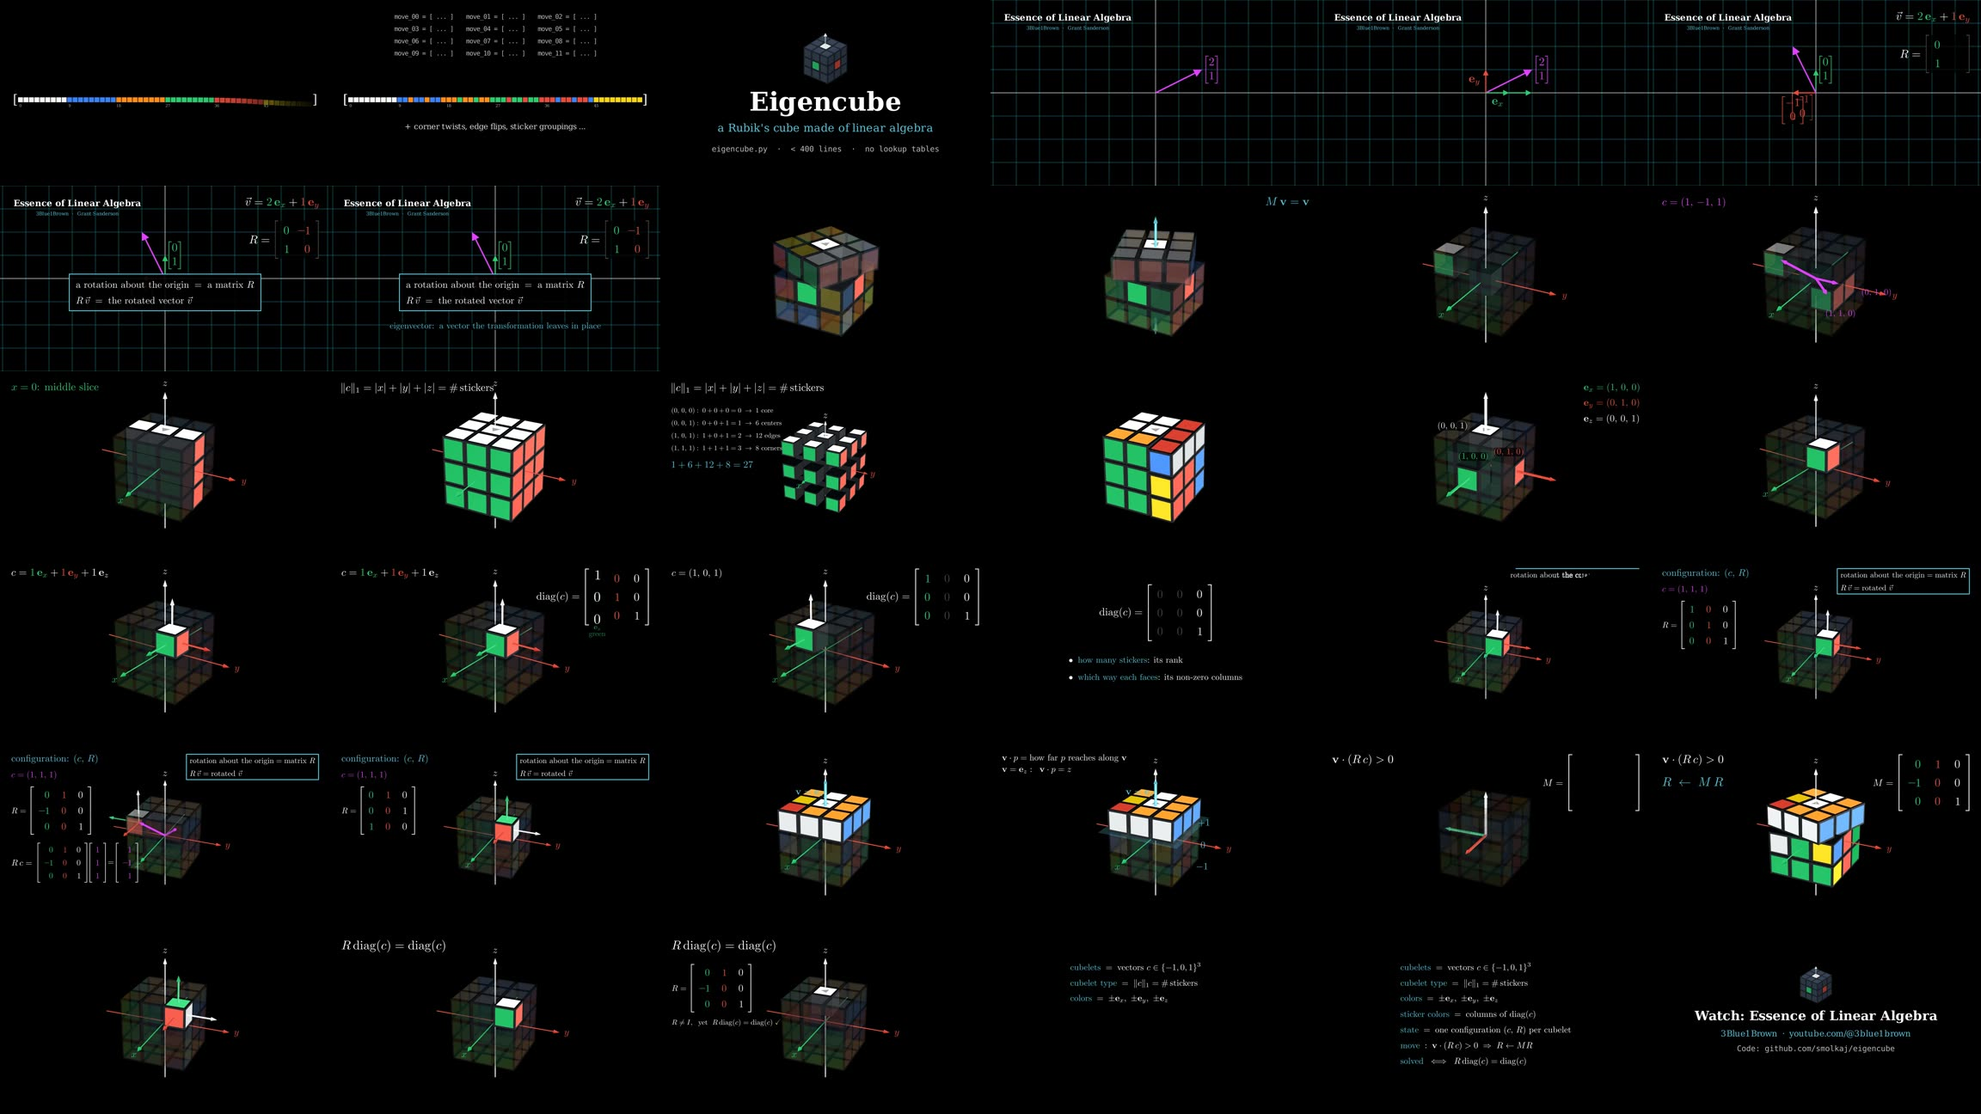
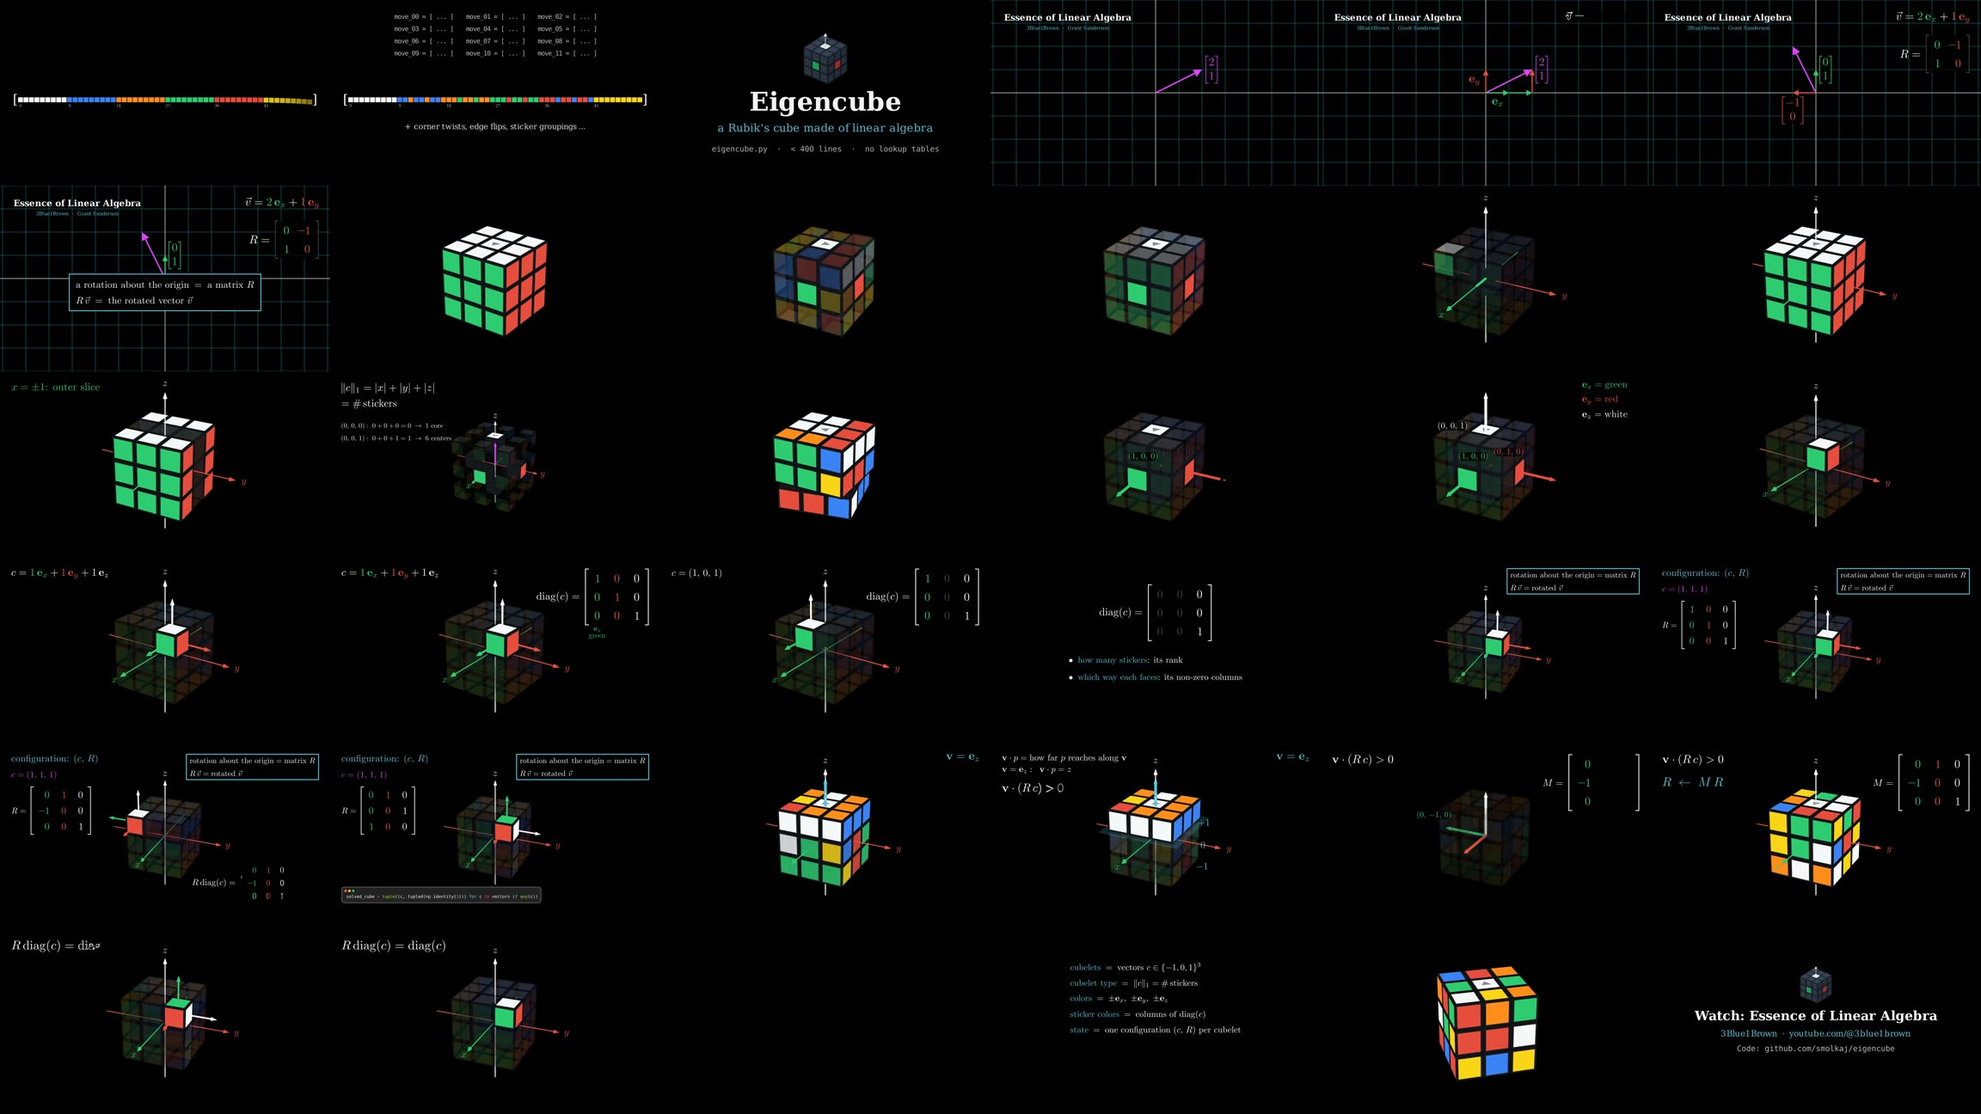
explainer: fail the build on overlapping text; review fixes
Two review rounds in a row found labels colliding with other labels or
with the captions, which no check covered. After every animation, the
build now finds where each placed label lands on screen, including 3D
labels projected through the camera, and fails on any overlap with
another label or with the caption band.

From review:
- One function decides which cubelets a move turns.
- The eigenvector overlay uses R, the review's name for a rotation, not
  the M that is only introduced later.
- The center and edge examples are both in plain view, each lit as it is
  named.
- The colors chapter turns the camera around to show the opposite
  colors.
- Stickers are drawn without shading, so each color looks the same on
  every face.
- The solve starts on "Here it is".
- The poster's play badge sits clear of its subject.
- The README defines v and M, and documents how to republish the release.

diff --git a/explainer/scenes.py b/explainer/scenes.py
@@ -65,7 +65,7 @@ def sticker_list_layout():
 
 class StickerNightmare(Narrated):
     def construct(self):
-        self.set_camera_orientation(**{**CAMERA, "zoom": 1.45})
+        self.set_camera_orientation(**{**CAMERA, "zoom": 1.35})
         cube = CubeMobject(eigencube.shuffle(eigencube.solved_cube, 25, seed=5))
         self.begin_ambient_camera_rotation(rate=0.12)
         with self.voice("Here's a Rubik's cube. Twenty-six little plastic cubelets, fifty-four "
@@ -102,7 +102,7 @@ class StickerNightmare(Narrated):
             arcs = VGroup(*(ArcBetweenPoints(cell.get_center() + 0.15 * UP, target + 0.15 * UP,
                                              angle=-PI / 2.2, color=ACCENT, stroke_width=1.5)
                             for cell, target in moved))
-            self.hud(arcs)
+            self.hud(arcs, overlay=True)
             self.wait(1.2)
             self.play(LaggedStart(*(Create(a) for a in arcs), lag_ratio=0.06), run_time=2.5)
             self.play(*(cell.animate(path_arc=-PI / 2).move_to(target) for cell, target in moved),
@@ -265,6 +265,9 @@ class LinearAlgebraReview(Narrated):
                         "dimensions, every rotation has one: its axis. Hold on to that thought."):
             self.when_said("eigenvector")
             self.play(Write(eigen), run_time=2)
+            self.when_said("A quarter turn")  # Every arrow moves.
+            self.play(Rotate(VGroup(plane, e_x, e_y, v), angle=PI / 2, about_point=ORIGIN),
+                      run_time=2.5)
         self.wait(0.5)
         self.play(*(FadeOut(m) for m in self.mobjects))
 
@@ -298,7 +301,7 @@ class FixedFrame(Narrated):
         # Both arms of the vertical axis, and the turns around them: top and bottom.
         axis = VGroup(arrow(ORIGIN, at(TOP, 2.6), ACCENT, thickness=0.04),
                       arrow(ORIGIN, at((0, 0, -1), 2.6), ACCENT, thickness=0.04))
-        eigen = self.hud(MathTex(r"M\,\mathbf{v} = \mathbf{v}", font_size=48, color=ACCENT)
+        eigen = self.hud(MathTex(r"R\,\mathbf{v} = \mathbf{v}", font_size=48, color=ACCENT)
                          .to_corner(UR))
         with self.voice("In the language of our review: each arm of the cross stays exactly where it "
                         "is, under every turn around it, like these turns of the top and the "
@@ -347,17 +350,19 @@ class FixedFrame(Narrated):
             self.play(Create(c_arrow), FadeIn(c_label))
         self.play(FadeOut(*path))
 
-        others = [((0, 1, 0), 2.6), ((1, 1, 0), 2.1)]
+        # The right center and the top-right edge are both in plain view; labels sit clear of axes.
+        others = [((0, 1, 0), (0, 1.6, -0.75)), ((0, 1, 1), (0, 0.9, 1.85))]
         other_arrows = [position_arrow(c) for c, _ in others]
         other_labels = [self.facing_camera(vector_tex(c, color=POSITION, font_size=36)
-                                           .move_to(at(c, scale))) for c, scale in others]
+                                           .add_background_rectangle(opacity=0.75)
+                                           .move_to(at(spot))) for c, spot in others]
         with self.voice("The coordinates of every cubelet are minus one, zero, or one. A center, "
                         "like this one, sits at zero, one, zero. And an edge, like this one, at "
-                        "one, one, zero."):
-            self.play(*(cube.pieces[c].animate.set_opacity(0.45) for c, _ in others))
-            for a, label, words in zip(other_arrows, other_labels, ["A center", "And an edge"]):
+                        "zero, one, one."):
+            for (c, _), a, label, words in zip(others, other_arrows, other_labels,
+                                              ["A center", "And an edge"]):
                 self.when_said(words)
-                self.play(Create(a), FadeIn(label))
+                self.play(cube.pieces[c].animate.set_opacity(0.45), Create(a), FadeIn(label))
         domain = self.hud(MathTex(r"c \in \{-1, 0, 1\}^3", font_size=44)
                           .next_to(c_label, DOWN, 0.4, aligned_edge=LEFT))
         self.play(Write(domain))
@@ -406,8 +411,9 @@ class CountingStickers(Narrated):
             self.when_said("the same goes")
             self.play(cube.animate.ghosted(cube.pieces))
 
-        norm = self.hud(MathTex(r"\|c\|_1 = |x| + |y| + |z|", r"= \#\,\text{stickers}",
-                                font_size=44).to_corner(UL))
+        norm = self.hud(VGroup(MathTex(r"\|c\|_1 = |x| + |y| + |z|", font_size=44),
+                               MathTex(r"= \#\,\text{stickers}", font_size=44))
+                        .arrange(DOWN, aligned_edge=LEFT).to_corner(UL))
         with self.voice("Add up the three switches, and you get what's called the Manhattan norm of "
                         "c. And it counts the stickers."):
             self.play(FadeOut(switch))
@@ -524,7 +530,14 @@ class ColorsAreVectors(Narrated):
             self.play(*(Create(color_arrows[c]) for c in negatives),
                       *(FadeIn(tips[c]) for c in negatives),
                       LaggedStart(*(Write(p) for p in palette[3:]), lag_ratio=0.4), run_time=2.5)
-
+        # The opposites point away from the camera; look at them from the other side.
+        # The legend and the front labels would crowd the back view, so they step aside meanwhile.
+        front_labels = [tips[c] for c in centers if c not in negatives]
+        self.play(FadeOut(palette), *(FadeOut(t) for t in front_labels))
+        self.move_camera(phi=70 * DEGREES, theta=CAMERA["theta"] + PI, run_time=2.5)
+        self.wait(2)
+        self.move_camera(**CAMERA, run_time=2.5)
+        self.play(FadeIn(palette), *(FadeIn(t) for t in front_labels))
         self.wait(1)
 
 
@@ -681,7 +694,7 @@ class Configuration(Narrated):
             MathTex(r"\text{rotation about the origin} = \text{matrix } R", font_size=32),
             MathTex(r"R\,\vec{v} = \text{rotated } \vec{v}", font_size=32)).arrange(
                 DOWN, aligned_edge=LEFT))
-        rule_box = self.hud(SurroundingRectangle(rule, color=ACCENT, buff=0.15))
+        rule_box = self.hud(SurroundingRectangle(rule, color=ACCENT, buff=0.15), overlay=True)
         VGroup(rule, rule_box).to_corner(UR)
         with self.voice("Remember our rule from the review: a rotation about the origin is a "
                         "matrix. And one turn after another is still just a rotation. So however "
@@ -722,7 +735,8 @@ class Configuration(Narrated):
                                product_tex(quarter, [[x] for x in CORNER],
                                            [[x] for x in quarter @ CORNER],
                                            BASIS_COLORS, [POSITION], [POSITION]).scale(0.7))
-                        .arrange(RIGHT).next_to(r_top, DOWN, 0.35, aligned_edge=LEFT))
+                        .arrange(RIGHT).to_corner(DR))  # Clear of the x axis, lower left.
+        above_captions(p_eq)
         with self.voice("So where is our cubelet, c, now? Take its home address, and rotate it: "
                         "multiply c by R.", pause=0.8):
             self.play(corner.animate.set_opacity(0.45))  # See-through, so the arrow to it shows.
@@ -779,8 +793,8 @@ class Moves(Narrated):
                  "turn?")
 
         v_arrow = arrow(ORIGIN, at(TOP, 2.6), ACCENT, thickness=0.05)
-        v_label = self.facing_camera(MathTex(r"\mathbf{v} = \mathbf{e}_z", color=ACCENT,
-                                             font_size=40).move_to(at(TOP, 2.4) + 1.3 * RIGHT))
+        v_label = self.hud(MathTex(r"\mathbf{v} = \mathbf{e}_z", color=ACCENT, font_size=48)
+                           .to_corner(UR))
         with self.voice("The ones in the top layer, with z equal to one. To say that for any face, "
                         "take the face's axis, v. For the top face, v is e z, pointing up."):
             self.play(cube.animate.ghosted(cube.slice_cubelets(TURN_TOP), 0.15), run_time=1.5)
@@ -948,7 +962,7 @@ class Solved(Narrated):
 
 class Outro(Narrated):
     def construct(self):
-        self.wait(1.5)  # A breath before the recap.
+        self.wait(1.5)  # A breath before the recap (which the README's summary table mirrors).
         recap = VGroup(*(MathTex(r"\text{%s}" % name, r"\;%s\;" % relation, rhs, font_size=36)
                          for name, relation, rhs in [
             ("cubelets", "=", r"\text{vectors } c \in \{-1, 0, 1\}^3"),
@@ -983,9 +997,10 @@ class Outro(Narrated):
         music_start = self.renderer.time
         with self.voice("On top of that model, Eigencube solves the cube layer by layer: an A-star "
                         "search, guided by how many quarter turns each cubelet is from home, plus "
-                        "one classic move sequence to finish. Here it is, solving a scramble."):
+                        "one classic move sequence to finish."):
             self.play(FadeIn(cube, scale=0.8))
             self.begin_ambient_camera_rotation(rate=0.15)
+        with self.voice("Here it is, solving a scramble."):
             for move in solution:
                 self.play(cube.turn(move), run_time=0.09, rate_func=linear)
         assert eigencube.is_cube_solved(cube.state)

diff --git a/explainer/kit.py b/explainer/kit.py
@@ -130,8 +130,13 @@ class Narrated(ThreeDScene):
     """
 
     def setup(self):
+        # Flat colors: Cairo's lighting would make one sticker color look different on each face.
+        self.renderer.camera.should_apply_shading = False
         self.cues = []
+        self.collisions = []
+        self.labels = []
         self.speaking_until = 0
+        self.spoken_words = []
         # Chapters render in parallel; separate LaTeX work directories keep them from reading each
         # other's half-written output for the same formula.
         config.tex_dir = str(Path(config.media_dir) / "Tex" / type(self).__name__)
@@ -147,6 +152,7 @@ class Narrated(ThreeDScene):
         self.speaking_until = start + seconds
         self.spoken_words = self.cues[-1]["words"]
         yield
+        self.spoken_words = []  # when_said outside a line fails instead of timing against this one.
         remaining = start + seconds + pause - self.renderer.time
         if remaining > 1 / config.frame_rate:
             self.wait(remaining)
@@ -208,17 +214,56 @@ class Narrated(ThreeDScene):
             world = [m for m in self.mobjects if id(m) not in animated and m not in pinned]
             animations = (*animations, *(Animation(m) for m in world))
         super().play(*animations, **kwargs)
+        self.check_labels()
 
-    def hud(self, *mobjects):
-        """Pins mobjects to the screen (not the 3D world) without showing them yet."""
+    def label_boxes(self):
+        """Where each label on screen lands, as (description, lower left, upper right).
+
+        A label is whatever was placed with hud() or facing_camera(), however many of its parts
+        are on screen at the moment."""
+        camera = self.renderer.camera
+        on_screen = set(self.get_mobject_family_members())
+        for label in self.labels:
+            parts = [m for m in label.get_family() if m in on_screen and m.has_points() and
+                     (m.get_fill_opacity() > 0 or m.get_stroke_opacity() > 0)]
+            if not parts:
+                continue
+            shift = 0
+            if label in camera.fixed_orientation_mobjects:
+                # Such a label is drawn where its center projects to, without perspective.
+                center = camera.fixed_orientation_mobjects[label]()
+                shift = camera.project_point(center) - center
+            low = np.min([p.get_corner(DL) for p in parts], axis=0) + shift
+            high = np.max([p.get_corner(UR) for p in parts], axis=0) + shift
+            yield getattr(label, "tex_string", type(label).__name__), low, high
+
+    def check_labels(self, slack=0.03):
+        """Records text that overlaps other text or the caption band; the build fails on any."""
+        boxes = list(self.label_boxes())
+        for i, (name, low, high) in enumerate(boxes):
+            if low[1] < CAPTION_TOP - slack:
+                self.collisions.append((self.renderer.time, name, "the captions"))
+            for other, low2, high2 in boxes[i + 1:]:
+                if (min(high[0], high2[0]) - max(low[0], low2[0]) > slack and
+                        min(high[1], high2[1]) - max(low[1], low2[1]) > slack):
+                    self.collisions.append((self.renderer.time, name, other))
+
+    def hud(self, *mobjects, overlay=False):
+        """Pins mobjects to the screen (not the 3D world) without showing them yet.
+
+        Pinned mobjects must not overlap each other or the captions, unless they are an `overlay`
+        drawn on top of something on purpose."""
         self.add_fixed_in_frame_mobjects(*mobjects)
         self.remove(*mobjects)
+        if not overlay:
+            self.labels += mobjects
         return mobjects[0] if len(mobjects) == 1 else mobjects
 
     def facing_camera(self, mobject):
         """Keeps a label placed in the 3D world turned toward the camera, without showing it yet."""
         self.add_fixed_orientation_mobjects(mobject)
         self.remove(mobject)
+        self.labels.append(mobject)
         return mobject
 
     def axes(self):
@@ -241,6 +286,8 @@ class Narrated(ThreeDScene):
         cues_dir = Path(config.media_dir) / "cues"
         cues_dir.mkdir(parents=True, exist_ok=True)
         (cues_dir / f"{type(self).__name__}.json").write_text(json.dumps(self.cues, indent=1))
+        (cues_dir / f"{type(self).__name__}.collisions.json").write_text(
+            json.dumps(self.collisions, indent=1))
 
 
 def ints(vector):
@@ -333,7 +380,7 @@ def cubelet_mobject(cubelet):
 
 
 class CubeMobject(VGroup):
-    """The 26 visible cubelets, rendered from a eigencube cube state.
+    """The 26 visible cubelets, rendered from an eigencube cube state.
 
     Each cubelet is drawn at home and then transformed by its rotation matrix R
     about the origin -- exactly the encoding the video explains.
@@ -356,9 +403,8 @@ class CubeMobject(VGroup):
 
     def turn(self, move, **kwargs):
         """Animates `move` and advances the underlying eigencube state."""
-        turned = eigencube.apply_move_to_cube(move, self.state)
-        turning = [self.pieces[c] for (c, r), (_, r2) in zip(self.state, turned) if r != r2]
-        self.state = turned
+        turning = [self.pieces[c] for c in self.slice_cubelets(move)]
+        self.state = eigencube.apply_move_to_cube(move, self.state)
         return Turn(self, turning, **move_angle_axis(move), **kwargs)
 
     def ghosted(self, keep=(), opacity=0.08):

diff --git a/explainer/build.py b/explainer/build.py
@@ -6,6 +6,7 @@
 
 import argparse
 import json
+import os
 import re
 import subprocess
 import sys
@@ -36,6 +37,7 @@ def render(scene, flags, media):
                        stdout=out, stderr=out, check=True)
     (video,) = media.glob(f"videos/scenes/*/{scene}.mp4")
     check_narration_audible(scene, video, media)
+    check_layout(scene, media)
     return video
 
 
@@ -51,6 +53,15 @@ def check_narration_audible(scene, video, media):
         if peak < -40:
             sys.exit(f"{scene}: narration is silent ({peak} dB) at {cue['start']:.1f}s: "
                      f"{cue['text']!r}")
+
+
+def check_layout(scene, media):
+    """Fails the build if text overlapped other text or the caption band at any point."""
+    collisions = json.loads((media / "cues" / f"{scene}.collisions.json").read_text())
+    for time, name, other in collisions:
+        print(f"{scene} at {time:.1f}s: {name!r} overlaps {other!r}", file=sys.stderr)
+    if collisions:
+        sys.exit(f"{scene}: {len(collisions)} text collision(s)")
 
 
 def cues(media, scene):
@@ -144,9 +155,9 @@ def poster(film, videos, media):
                     "-frames:v", "1", "-vf", "scale=1280:720", str(frame)], check=True)
     image = Image.open(frame).convert("RGB")
     draw = ImageDraw.Draw(image, "RGBA")
-    x, y, r = 640, 360, 64
+    x, y, r = 150, 600, 56  # In the empty lower left, clear of the subject.
     draw.ellipse((x - r, y - r, x + r, y + r), fill=(0, 0, 0, 170), outline=(88, 196, 221), width=5)
-    draw.polygon([(x - 22, y - 34), (x - 22, y + 34), (x + 36, y)], fill=(255, 255, 255))
+    draw.polygon([(x - 19, y - 30), (x - 19, y + 30), (x + 32, y)], fill=(255, 255, 255))
     image.save(HERE / "poster.jpg", quality=88)
 
 
@@ -168,7 +179,7 @@ def main():
             sys.exit(f"{scene} has not been rendered at this quality yet; render it too.")
         return existing[0]
 
-    with ThreadPoolExecutor(len(CHAPTERS)) as pool:
+    with ThreadPoolExecutor(min(len(CHAPTERS), os.cpu_count() or 1)) as pool:
         videos = list(pool.map(video, CHAPTERS))
 
     concat = media / "concat.txt"
@@ -178,7 +189,8 @@ def main():
     subtitles.write_text(captions(videos, media))
     picture = sum(duration(v) for v in videos)
     subprocess.run(["ffmpeg", "-v", "error", "-y", "-f", "concat", "-safe", "0", "-i", str(concat),
-                    "-i", str(subtitles), "-map", "0", "-map", "1", "-c:v", "libx264", "-crf", "28", "-preset", "slow",
+                    "-i", str(subtitles), "-map", "0", "-map", "1",
+                    "-c:v", "libx264", "-crf", "28", "-preset", "slow",
                     "-tune", "animation", "-pix_fmt", "yuv420p",
                     # A chapter's audio ends at its last sound, which leaves gaps between chapters.
                     # Players that ignore such gaps would run ahead of the picture, so they are

diff --git a/scripts/generate_cubelet_types.py b/scripts/generate_cubelet_types.py
@@ -10,7 +10,6 @@ from PIL import Image, ImageDraw, ImageFont
 REPO_ROOT = Path(__file__).resolve().parent.parent
 FONTS_DIR = REPO_ROOT / "fonts"
 
-# Canvas size
 WIDTH = 1200
 HEIGHT = 380
 SCALE = 2

diff --git a/README.md b/README.md
@@ -35,7 +35,7 @@ The payoff of this linear algebra formulation is **radical simplicity**: the ent
 
 The whole encoding, in motion and from first principles: a quick review of the linear algebra it uses, then the cube itself, built up one idea at a time. It is rendered with Manim straight from [`eigencube.py`](eigencube.py) (see [`explainer/`](explainer/)), in the spirit of Essence of Linear Algebra.
 
-The model at a glance:
+The model at a glance (the film's closing recap; keep the two in step):
 
 | | |
 |:--|:--|
@@ -44,7 +44,7 @@ The model at a glance:
 | **Colors** | $\pm\mathbf{e}_x, \pm\mathbf{e}_y, \pm\mathbf{e}_z$: the never-moving centers, each an eigenvector of the turns around it |
 | **Sticker colors** | the non-zero columns of $\mathrm{diag}(c)$ |
 | **State** | one configuration $(c, R)$ per cubelet, with $R$ a rotation matrix |
-| **Move** | the cubelets with $\mathbf{v} \cdot (R\,c) > 0$ turn: $R \leftarrow M R$ |
+| **Move** | the cubelets with $\mathbf{v} \cdot (R\,c) > 0$ turn ( $\mathbf{v}$: the face's axis): $R \leftarrow M R$ ( $M$: the quarter-turn matrix) |
 | **Solved** | $R \cdot \mathrm{diag}(c) = \mathrm{diag}(c)$ for every cubelet |
 
 ---
@@ -199,7 +199,7 @@ eigencube/
 │   └── generate_logo.py    # Logo, icons & GitHub social preview generator
 ├── tests/
 │   └── test_eigencube.py   # Unit test suite
-├── img/                # Architectural diagrams & preview snapshots
+├── img/                # Logo, icons, screenshots & blog figures
 │   ├── cube.png
 │   ├── cubelet-types.png
 │   ├── cube-in-plane.jpg

diff --git a/explainer/README.md b/explainer/README.md
@@ -47,4 +47,7 @@ python build.py --draft   # fast 480p15 preview -> build/draft.mp4
 python build.py           # final 1080p30 cut -> build/eigencube-explainer.mp4 (+ .srt)
 python build.py --draft Moves Solved   # re-render only some chapters
 pip install faster-whisper && python check_speech.py   # check pronunciation of the latest cut
+python check_speech.py --sync   # check that captions match when their words are heard
+# Publish the new cut where the README's poster links to (also refresh poster.jpg in git):
+gh release upload explainer build/eigencube-explainer.mp4 build/eigencube-explainer.srt --clobber
 ```
